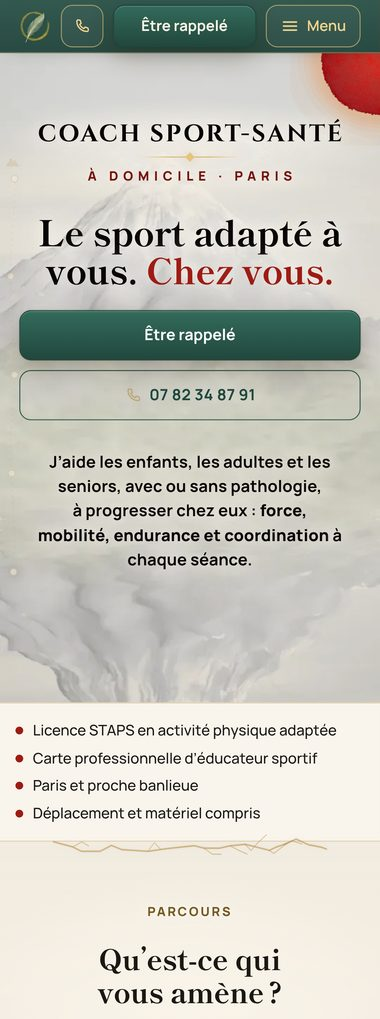
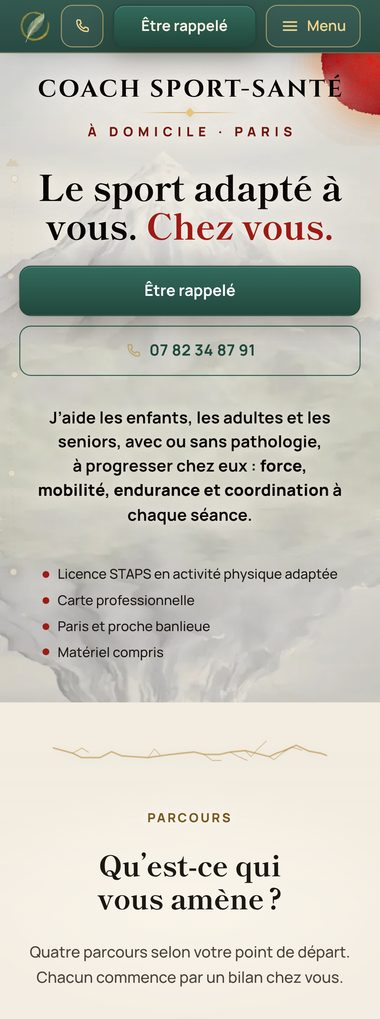
Prototype charte : peinture dorée rétablie, preuves sous les boutons
Claude-Session: https://claude.ai/code/session_01LrAkv3iEoTauvgvzc89jzg

Changed region(s): [[0.0289, 0.0608, 0.9553, 0.6693], [0.0868, 0.6997, 0.9263, 1.0], [0.0289, 0.6997, 0.0579, 0.8214]]

diff --git a/charte/outils/charte.css b/charte/outils/charte.css
@@ -76,11 +76,10 @@ main :is(.etape .k,.pillar .k,.scroll .k,.medecin .k,.apr-carte .k,.apr-engage .
 @media (min-width:701px){main nav.suite{display:grid!important;grid-template-columns:repeat(3,minmax(0,1fr))!important;gap:16px!important;max-width:880px;margin-inline:auto}}
 
 /* ---------- Nouveaux blocs ---------- */
-.preuves{padding:18px 16px;border-block:1px solid var(--ch-trait);background:rgba(255,252,246,.55)}
-html:not(.clair) .preuves{background:rgba(12,18,34,.6)}
-.preuves ul{list-style:none;margin:0 auto;padding:0;max-width:1080px;display:flex;flex-wrap:wrap;justify-content:center;gap:10px 32px}
-.preuves li{display:flex;align-items:center;gap:10px;font:600 .95rem/1.35 var(--ch-texte);color:var(--ch-encre)}
-.preuves li::before{content:"";flex:none;width:8px;height:8px;border-radius:50%;background:#9E1B14}
+.preuves-hero{list-style:none;margin:22px 0 0;padding:0;display:flex;flex-wrap:wrap;justify-content:center;gap:8px 26px;width:min(1040px,94vw);margin-inline:calc((100% - min(1040px,94vw)) / 2)!important}
+.preuves-hero li{display:flex;align-items:center;gap:9px;font:700 .95rem/1.35 var(--ch-texte);color:var(--ch-encre);text-shadow:0 0 10px rgba(255,248,235,.95),0 0 3px rgba(255,248,235,.95)}
+html:not(.clair) .preuves-hero li{text-shadow:0 0 10px rgba(8,12,24,.95),0 0 3px rgba(8,12,24,.95)}
+.preuves-hero li::before{content:"";flex:none;width:7px;height:7px;border-radius:50%;background:#9E1B14}
 .ch-texte{max-width:42rem;margin:0 auto;text-align:left}
 .ch-texte p{margin:0 0 1em;font-size:var(--ch-t-corps);line-height:1.7;color:var(--ch-encre)}
 .ch-liste{list-style:none;margin:0 auto;padding:0;max-width:46rem;display:grid;gap:16px}
@@ -105,7 +104,8 @@ main .cta-final .cta-box p{color:var(--ch-doux)!important}
 @media (max-width:700px){
   main :is(.hero-pro,.p-hero) .actions,main .ch-actions{display:flex!important;flex-direction:column!important;align-items:stretch!important;gap:10px!important;width:100%}
   main :is(.hero-pro,.p-hero) .actions>*,main .ch-actions>*{width:100%!important;min-height:52px!important;height:auto!important;padding-block:12px!important;margin:0!important;flex:none!important}
-  .preuves ul{flex-direction:column;align-items:flex-start;max-width:24rem;gap:8px}
+  main .hero-pro .h-txt>.preuves-hero{order:4;flex-direction:column;align-items:flex-start;gap:8px;width:max-content;max-width:100%;margin:18px auto 0!important;text-align:left}
+  .preuves-hero li{font-size:.875rem}
 }
 main .bes-situ li,main .bes-situ li span{color:var(--ch-encre)!important}
 @media (min-width:1001px){main ol.pillars.pillars4,main .voies.voies4{display:grid!important;grid-template-columns:repeat(4,minmax(0,1fr))!important;gap:16px!important}}

diff --git a/charte/site/commun/charte.css b/charte/site/commun/charte.css
@@ -76,11 +76,10 @@ main :is(.etape .k,.pillar .k,.scroll .k,.medecin .k,.apr-carte .k,.apr-engage .
 @media (min-width:701px){main nav.suite{display:grid!important;grid-template-columns:repeat(3,minmax(0,1fr))!important;gap:16px!important;max-width:880px;margin-inline:auto}}
 
 /* ---------- Nouveaux blocs ---------- */
-.preuves{padding:18px 16px;border-block:1px solid var(--ch-trait);background:rgba(255,252,246,.55)}
-html:not(.clair) .preuves{background:rgba(12,18,34,.6)}
-.preuves ul{list-style:none;margin:0 auto;padding:0;max-width:1080px;display:flex;flex-wrap:wrap;justify-content:center;gap:10px 32px}
-.preuves li{display:flex;align-items:center;gap:10px;font:600 .95rem/1.35 var(--ch-texte);color:var(--ch-encre)}
-.preuves li::before{content:"";flex:none;width:8px;height:8px;border-radius:50%;background:#9E1B14}
+.preuves-hero{list-style:none;margin:22px 0 0;padding:0;display:flex;flex-wrap:wrap;justify-content:center;gap:8px 26px;width:min(1040px,94vw);margin-inline:calc((100% - min(1040px,94vw)) / 2)!important}
+.preuves-hero li{display:flex;align-items:center;gap:9px;font:700 .95rem/1.35 var(--ch-texte);color:var(--ch-encre);text-shadow:0 0 10px rgba(255,248,235,.95),0 0 3px rgba(255,248,235,.95)}
+html:not(.clair) .preuves-hero li{text-shadow:0 0 10px rgba(8,12,24,.95),0 0 3px rgba(8,12,24,.95)}
+.preuves-hero li::before{content:"";flex:none;width:7px;height:7px;border-radius:50%;background:#9E1B14}
 .ch-texte{max-width:42rem;margin:0 auto;text-align:left}
 .ch-texte p{margin:0 0 1em;font-size:var(--ch-t-corps);line-height:1.7;color:var(--ch-encre)}
 .ch-liste{list-style:none;margin:0 auto;padding:0;max-width:46rem;display:grid;gap:16px}
@@ -105,7 +104,8 @@ main .cta-final .cta-box p{color:var(--ch-doux)!important}
 @media (max-width:700px){
   main :is(.hero-pro,.p-hero) .actions,main .ch-actions{display:flex!important;flex-direction:column!important;align-items:stretch!important;gap:10px!important;width:100%}
   main :is(.hero-pro,.p-hero) .actions>*,main .ch-actions>*{width:100%!important;min-height:52px!important;height:auto!important;padding-block:12px!important;margin:0!important;flex:none!important}
-  .preuves ul{flex-direction:column;align-items:flex-start;max-width:24rem;gap:8px}
+  main .hero-pro .h-txt>.preuves-hero{order:4;flex-direction:column;align-items:flex-start;gap:8px;width:max-content;max-width:100%;margin:18px auto 0!important;text-align:left}
+  .preuves-hero li{font-size:.875rem}
 }
 main .bes-situ li,main .bes-situ li span{color:var(--ch-encre)!important}
 @media (min-width:1001px){main ol.pillars.pillars4,main .voies.voies4{display:grid!important;grid-template-columns:repeat(4,minmax(0,1fr))!important;gap:16px!important}}

diff --git a/charte/site/index.html b/charte/site/index.html
@@ -439,12 +439,12 @@ html.clair body #p-reserver ul.o-chips.o-chips2 b{color:#9E1B14 !important}
         <h1 class="eyebrow reveal titre-or" style="--d:0"><span class="to-f" aria-hidden="true"></span><span class="to-t"><b><span class="to-m">Coach sport-santé</span></b> <small>à domicile · Paris</small></span><span class="to-f" aria-hidden="true"></span></h1>
         <p class="slogan reveal" style="--d:.1">Le sport adapté à vous. <em>Chez vous.</em></p>
         <p class="lede reveal" style="--d:.2">J’aide les enfants, les adultes et les seniors, avec ou sans pathologie, à progresser chez eux : <strong>force, mobilité, endurance et coordination</strong> à chaque séance.</p>
-        <div class="actions reveal" style="--d:.3"><a class="btn" href="bilan/index.html">Être rappelé</a><a class="btn-tel" href="tel:+33782348791"><svg class="ic-tel" viewBox="0 0 24 24" aria-hidden="true"><path d="M6.6 3.5l2.7.5 1.3 4.1-2 1.6a12.5 12.5 0 0 0 5.7 5.7l1.6-2 4.1 1.3.5 2.7c.1 1-.6 1.8-1.6 1.9C11.2 19.7 4.3 12.8 4.7 5.1c.1-1 .9-1.7 1.9-1.6z"/></svg><span>07 82 34 87 91</span></a></div>
+        <div class="actions reveal" style="--d:.3"><a class="btn" href="bilan/index.html">Être rappelé</a><a class="btn-tel" href="tel:+33782348791"><svg class="ic-tel" viewBox="0 0 24 24" aria-hidden="true"><path d="M6.6 3.5l2.7.5 1.3 4.1-2 1.6a12.5 12.5 0 0 0 5.7 5.7l1.6-2 4.1 1.3.5 2.7c.1 1-.6 1.8-1.6 1.9C11.2 19.7 4.3 12.8 4.7 5.1c.1-1 .9-1.7 1.9-1.6z"/></svg><span>07 82 34 87 91</span></a></div><ul class="preuves-hero reveal" style="--d:.4" aria-label="En bref"><li>Licence STAPS en activité physique adaptée</li><li>Carte professionnelle</li><li>Paris et proche banlieue</li><li>Matériel compris</li></ul>
         
         <!--@offre-hero--><p class="offre-l reveal" style="--d:.4"><strong>La première séance</strong> dure 1h chez vous : 38€, satisfait ou remboursé. Premières séances dès janvier 2027.</p><!--/@offre-hero-->
       </div>
     </div>
-  </section><div class="preuves" aria-label="En bref"><ul><li>Licence STAPS en activité physique adaptée</li><li>Carte professionnelle d’éducateur sportif</li><li>Paris et proche banlieue</li><li>Déplacement et matériel compris</li></ul></div>
+  </section>
 
   <section class="sec pro-sec" id="prestations" data-obs>
     <div class="wrap">

diff --git a/charte/index.html b/charte/index.html
@@ -144,7 +144,7 @@ details img{display:block;width:100%;height:auto;margin-top:12px;border-radius:1
   <h3>Accueil</h3>
   <ul class="liste">
     <li>Phrase d’accroche raccourcie ; « Être rappelé » et le numéro côte à côte.</li>
-    <li>Une bande de preuves sous la peinture : licence STAPS en APA, carte professionnelle, Paris et proche banlieue, déplacement et matériel compris.</li>
+    <li>Une ligne de preuves sous les boutons, sur la peinture : licence STAPS en activité physique adaptée, carte professionnelle, Paris et proche banlieue, matériel compris.</li>
     <li>Parcours : une phrase d’introduction, « Découvrir » en lien fléché, cartes rangées à gauche sur téléphone.</li>
     <li>Nouvelle section « Des prix clairs » avant l’appel final, avec le lien vers les formules.</li>
     <li>Appel final : bouton et numéro, texte en couleur normale.</li>
@@ -161,5 +161,5 @@ details img{display:block;width:100%;height:auto;margin-top:12px;border-radius:1
     <li>Titres, petits titres, cartes, boutons, icônes et espacements suivent la charte.</li>
     <li>Plus de cartes seules sur leur ligne (Méthode), plus de liste en rouge (Après 60 ans), plus de trait rouge sur le côté des cartes (À propos).</li>
   </ul>
-  <p class="note">Les textes viennent du site actuel, déplacés ou découpés. Sont nouveaux : les phrases d’introduction des sections, les titres des trois cartes d’Éveil, la bande de preuves et la section des prix, tous tirés d’informations déjà présentes sur le site. Le formulaire et le téléphone du prototype ne servent qu’à voir. Après votre avis, la même réorganisation peut être faite sur Élan, Envol, Plume, la Méthode, À propos et les Tarifs.</p>
+  <p class="note">Les textes viennent du site actuel, déplacés ou découpés. Sont nouveaux : les phrases d’introduction des sections, les titres des trois cartes d’Éveil, la ligne de preuves et la section des prix, tous tirés d’informations déjà présentes sur le site. Le formulaire et le téléphone du prototype ne servent qu’à voir. Après votre avis, la même réorganisation peut être faite sur Élan, Envol, Plume, la Méthode, À propos et les Tarifs.</p>
 </section>

diff --git a/charte/outils/charte.py b/charte/outils/charte.py
@@ -23,9 +23,7 @@ for f in glob.glob(os.path.join(D, '**/*.html'), recursive=True):
         t = re.sub(r'<p class="lede reveal" style="--d:\.2">.*?</p>', '<p class="lede reveal" style="--d:.2">J’aide les enfants, les adultes et les seniors, avec ou sans pathologie, à progresser chez eux : <strong>force, mobilité, endurance et coordination</strong> à chaque séance.</p>', t, count=1, flags=re.S)
         t = rep(t, '<a class="btn ghost" href="#prestations">Voir les parcours</a></div>', TEL + '</div>', 'accueil téléphone à côté du bouton')
         t = re.sub(r'<!--@tel-hero-->.*?<!--/@tel-hero-->', '', t, count=1, flags=re.S)
-        i, j = section(t, 'class="hero hero-pro')
-        t = t[:j] + ('<div class="preuves" aria-label="En bref"><ul><li>Licence STAPS en activité physique adaptée</li><li>Carte professionnelle d’éducateur sportif</li>'
-                     '<li>Paris et proche banlieue</li><li>Déplacement et matériel compris</li></ul></div>') + t[j:]
+        t = rep(t, TEL + '</div>', TEL + '</div><ul class="preuves-hero reveal" style="--d:.4" aria-label="En bref"><li>Licence STAPS en activité physique adaptée</li><li>Carte professionnelle</li><li>Paris et proche banlieue</li><li>Matériel compris</li></ul>', 'accueil preuves sous les boutons')
         t = rep(t, '<h2 class="rv">Qu’est-ce qui vous amène ?</h2>', '<h2 class="rv">Qu’est-ce qui vous amène ?</h2><p class="body rv">Quatre parcours selon votre point de départ. Chacun commence par un bilan chez vous.</p>', 'accueil intro parcours')
         i, j = section(t, 'class="sec pro-sec cta-final')
         t = t[:i] + ('<section class="sec pro-sec" id="prix-court" data-obs><div class="wrap"><div class="sec-head"><p class="eyebrow">Tarifs</p><h2>Des prix clairs</h2>'
